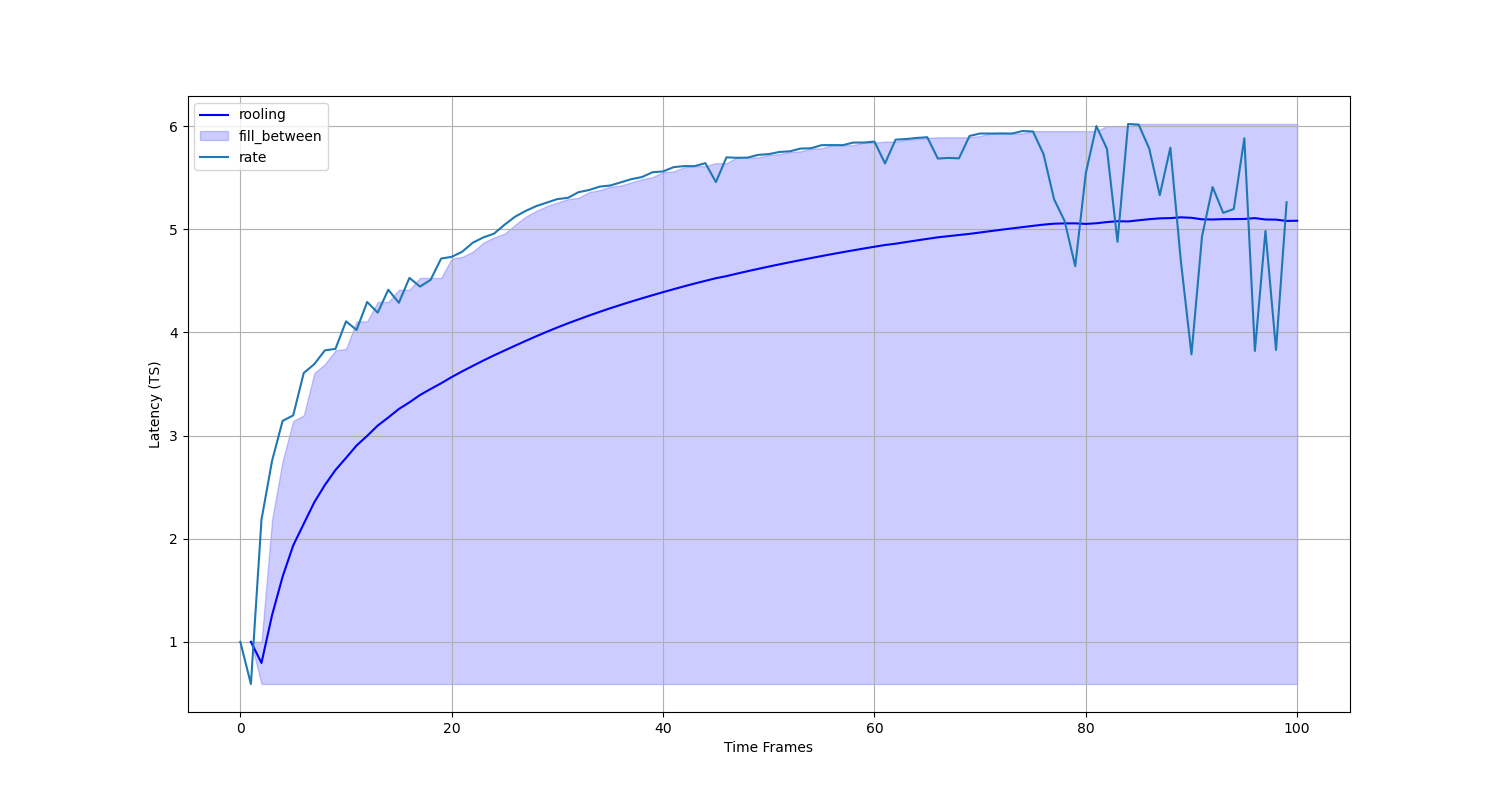
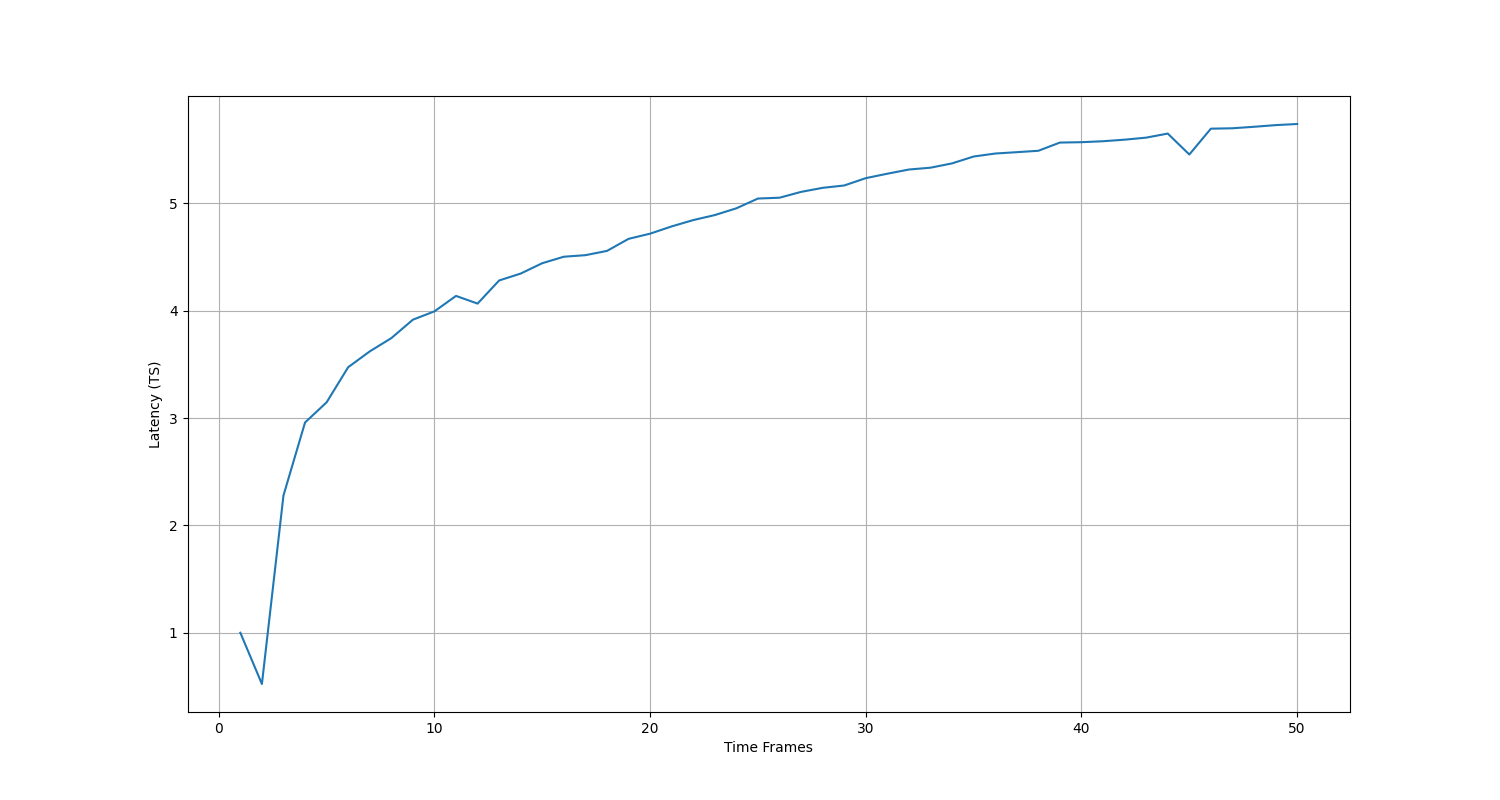
update figure

diff --git a/LyDROOwithTF2conv.py b/LyDROOwithTF2conv.py
@@ -18,7 +18,7 @@ import numpy as np                         # import numpy
 from memoryTF2conv import MemoryDNN
 # from optimization import bisection
 from ResourceAllocation import Algo1_NUM
-from system_params import d_th, scale_delay, V, n
+from system_params import d_th, scale_delay, V
 from User import *
 
 
@@ -29,7 +29,7 @@ import time
 import os 
 
 def create_img_folder(): 
-    path = f'./V=1e{V},dth={d_th},lambda={lambda_param},n={n}/'
+    path = f'./V=1e{V},dth={d_th},lambda={lambda_param}/'
     os.makedirs(path, exist_ok=True)
     print(f"Directory {os.getcwd()}")
     return path 
@@ -46,12 +46,11 @@ def plot_rate( rate_his, rolling_intv = 50, ylabel='Normalized Computation Rate'
     # mpl.style.use('seaborn')
     fig, ax = plt.subplots(figsize=(15,8))
     plt.grid()
-    plt.plot(np.arange(len(rate_array))+1, np.hstack(df.rolling(rolling_intv, min_periods=1).mean().values), 'b')
-    plt.fill_between(np.arange(len(rate_array))+1, np.hstack(df.rolling(rolling_intv, min_periods=1).min()[0].values), np.hstack(df.rolling(rolling_intv, min_periods=1).max()[0].values), color = 'b', alpha = 0.2)
-    plt.plot(np.arange(len(rate_array)), rate_array)
+    plt.plot(np.arange(len(rate_array))+1, rate_array)
+    # plt.plot(np.arange(len(rate_array))+1, np.hstack(df.rolling(rolling_intv, min_periods=1).mean().values), 'b')
+    # plt.fill_between(np.arange(len(rate_array))+1, np.hstack(df.rolling(rolling_intv, min_periods=1).min()[0].values), np.hstack(df.rolling(rolling_intv, min_periods=1).max()[0].values), color = 'b', alpha = 0.2)
     plt.ylabel(ylabel)
     plt.xlabel('Time Frames')
-    plt.legend(['rooling', 'fill_between', 'rate'])
     plt.savefig(name)
     plt.show()
 
@@ -68,7 +67,7 @@ if __name__ == "__main__":
     V = 10**V
 
     N = 10                # number of users
-
+    n = 50              # number of time frames
     K = N                   # initialize K = N
 
     arrival_lambda = lambda_param*np.ones((N)) # 1.5 Mbps per user
@@ -97,7 +96,7 @@ if __name__ == "__main__":
     
     mem = MemoryDNN(net = [N*3, 256, 128, N],
                     learning_rate = 0.01,
-                    training_interval=20,
+                    training_interval=10,
                     batch_size=128,
                     memory_size=Memory)
 
